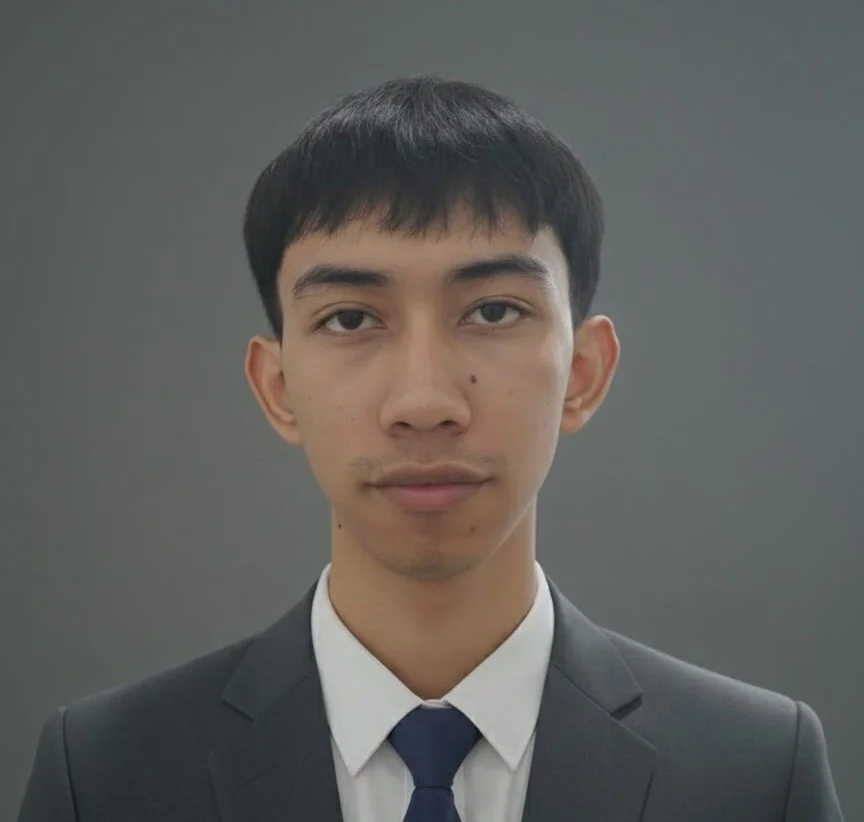
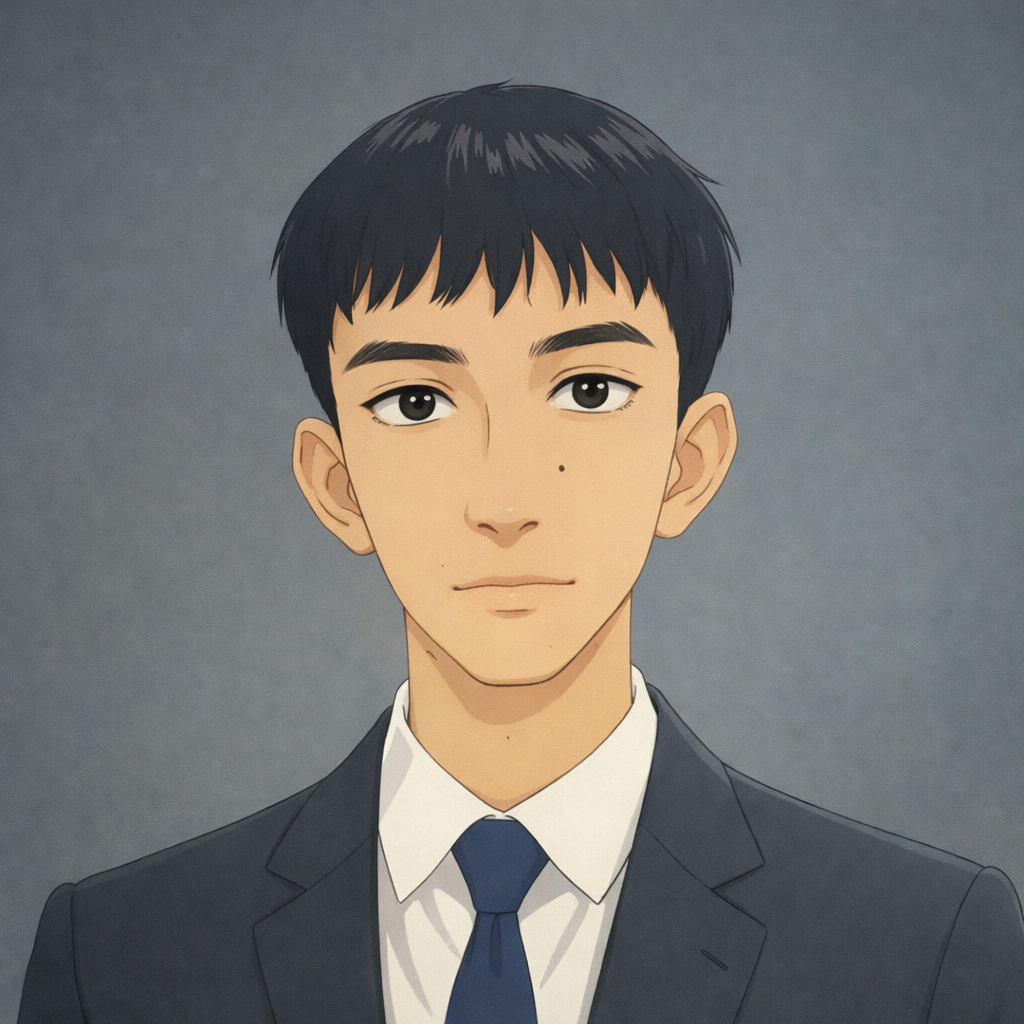
chore(contenido): cambio en textos, descripciones y imagen de perfil

diff --git a/index.html b/index.html
@@ -5,12 +5,12 @@
   <meta charset="UTF-8" />
   <link rel="icon" class="icon-pg" type="image/svg+xml" href="/favicon.svg" />
   <meta name="viewport" content="width=device-width, initial-scale=1.0" />
-  <title>Portafolio de Obed Aquino - Desarrollador Full Stack</title>
+  <title>Portafolio de Obed Aquino - Desarrollador Backend</title>
   <meta name="description"
     content="Portafolio de Obed Aquino, desarrollador Backend Jr. JavaScript, Node.js y proyectos web modernos." />
   <meta property="og:title" content="Obed Aquino — Desarrollador Backend Jr" />
   <meta property="og:description"
-    content="Portafolio de Obed Aquino, desarrollador Backend Jr. JavaScript, Node.js y proyectos web modernos." />
+    content="Portafolio de Obed Aquino, desarrollador Backend Jr. C#, ASP.NET, JavaScript, Node.js, y proyectos web modernos." />
   <meta property="og:image" content="/favicon.svg" />
   <meta property="og:type" content="website" />
 </head>

diff --git a/src/components/HeroComponent.vue b/src/components/HeroComponent.vue
@@ -20,11 +20,11 @@ onMounted(() => {
             <h1 class="anim-item" style="--i: 1">
                 Desarrollador
                 <span class="letter-tag">
-                    &lt; Full Stack Jr /&gt;
+                    &lt; Backend Jr /&gt;
                 </span>
             </h1>
             <p class="txt-info anim-item" style="--i: 2">
-                Desarrollo APIs y aplicaciones web con Node.js y Express. Me enfoco en construir servicios backend
+                Desarrollo de software con ASP.NET C# y Node.js con Express. Me enfoco en construir servicios backend
                 seguros, escalables y bien estructurados, trabajando con bases de datos SQL y autenticación con JWT.
             </p>
             <div class="btn-group anim-item" style="--i: 3">
